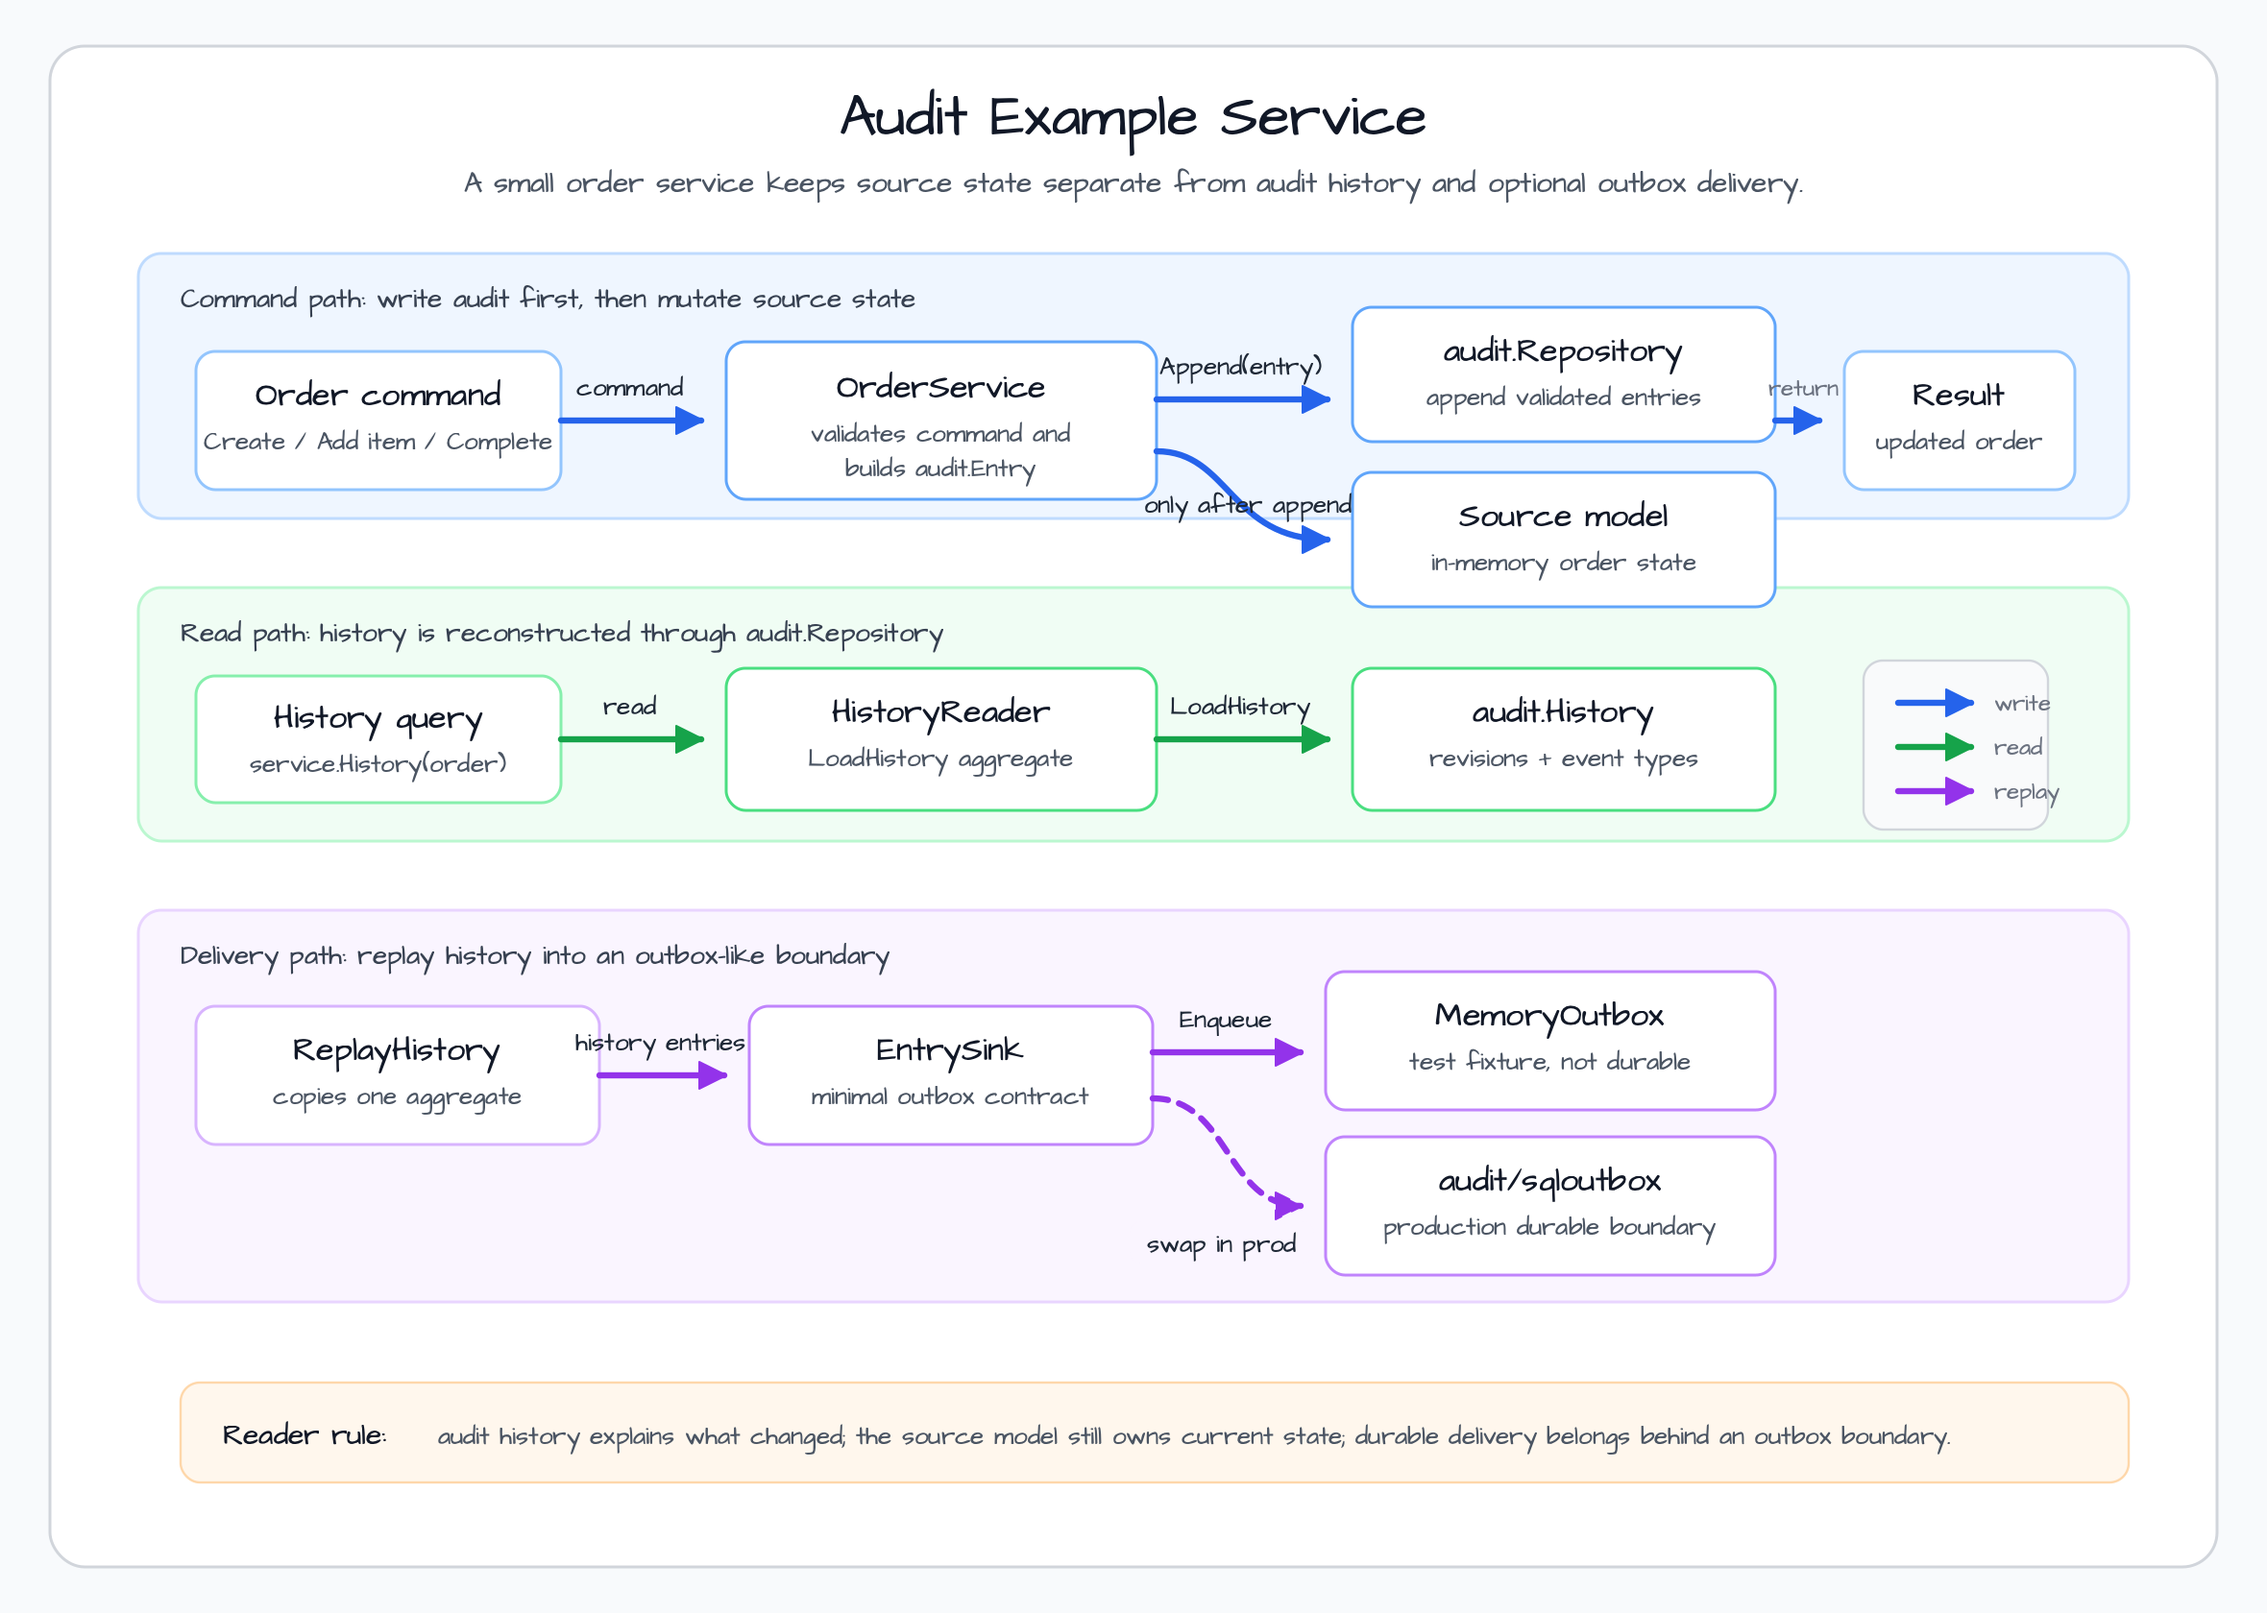
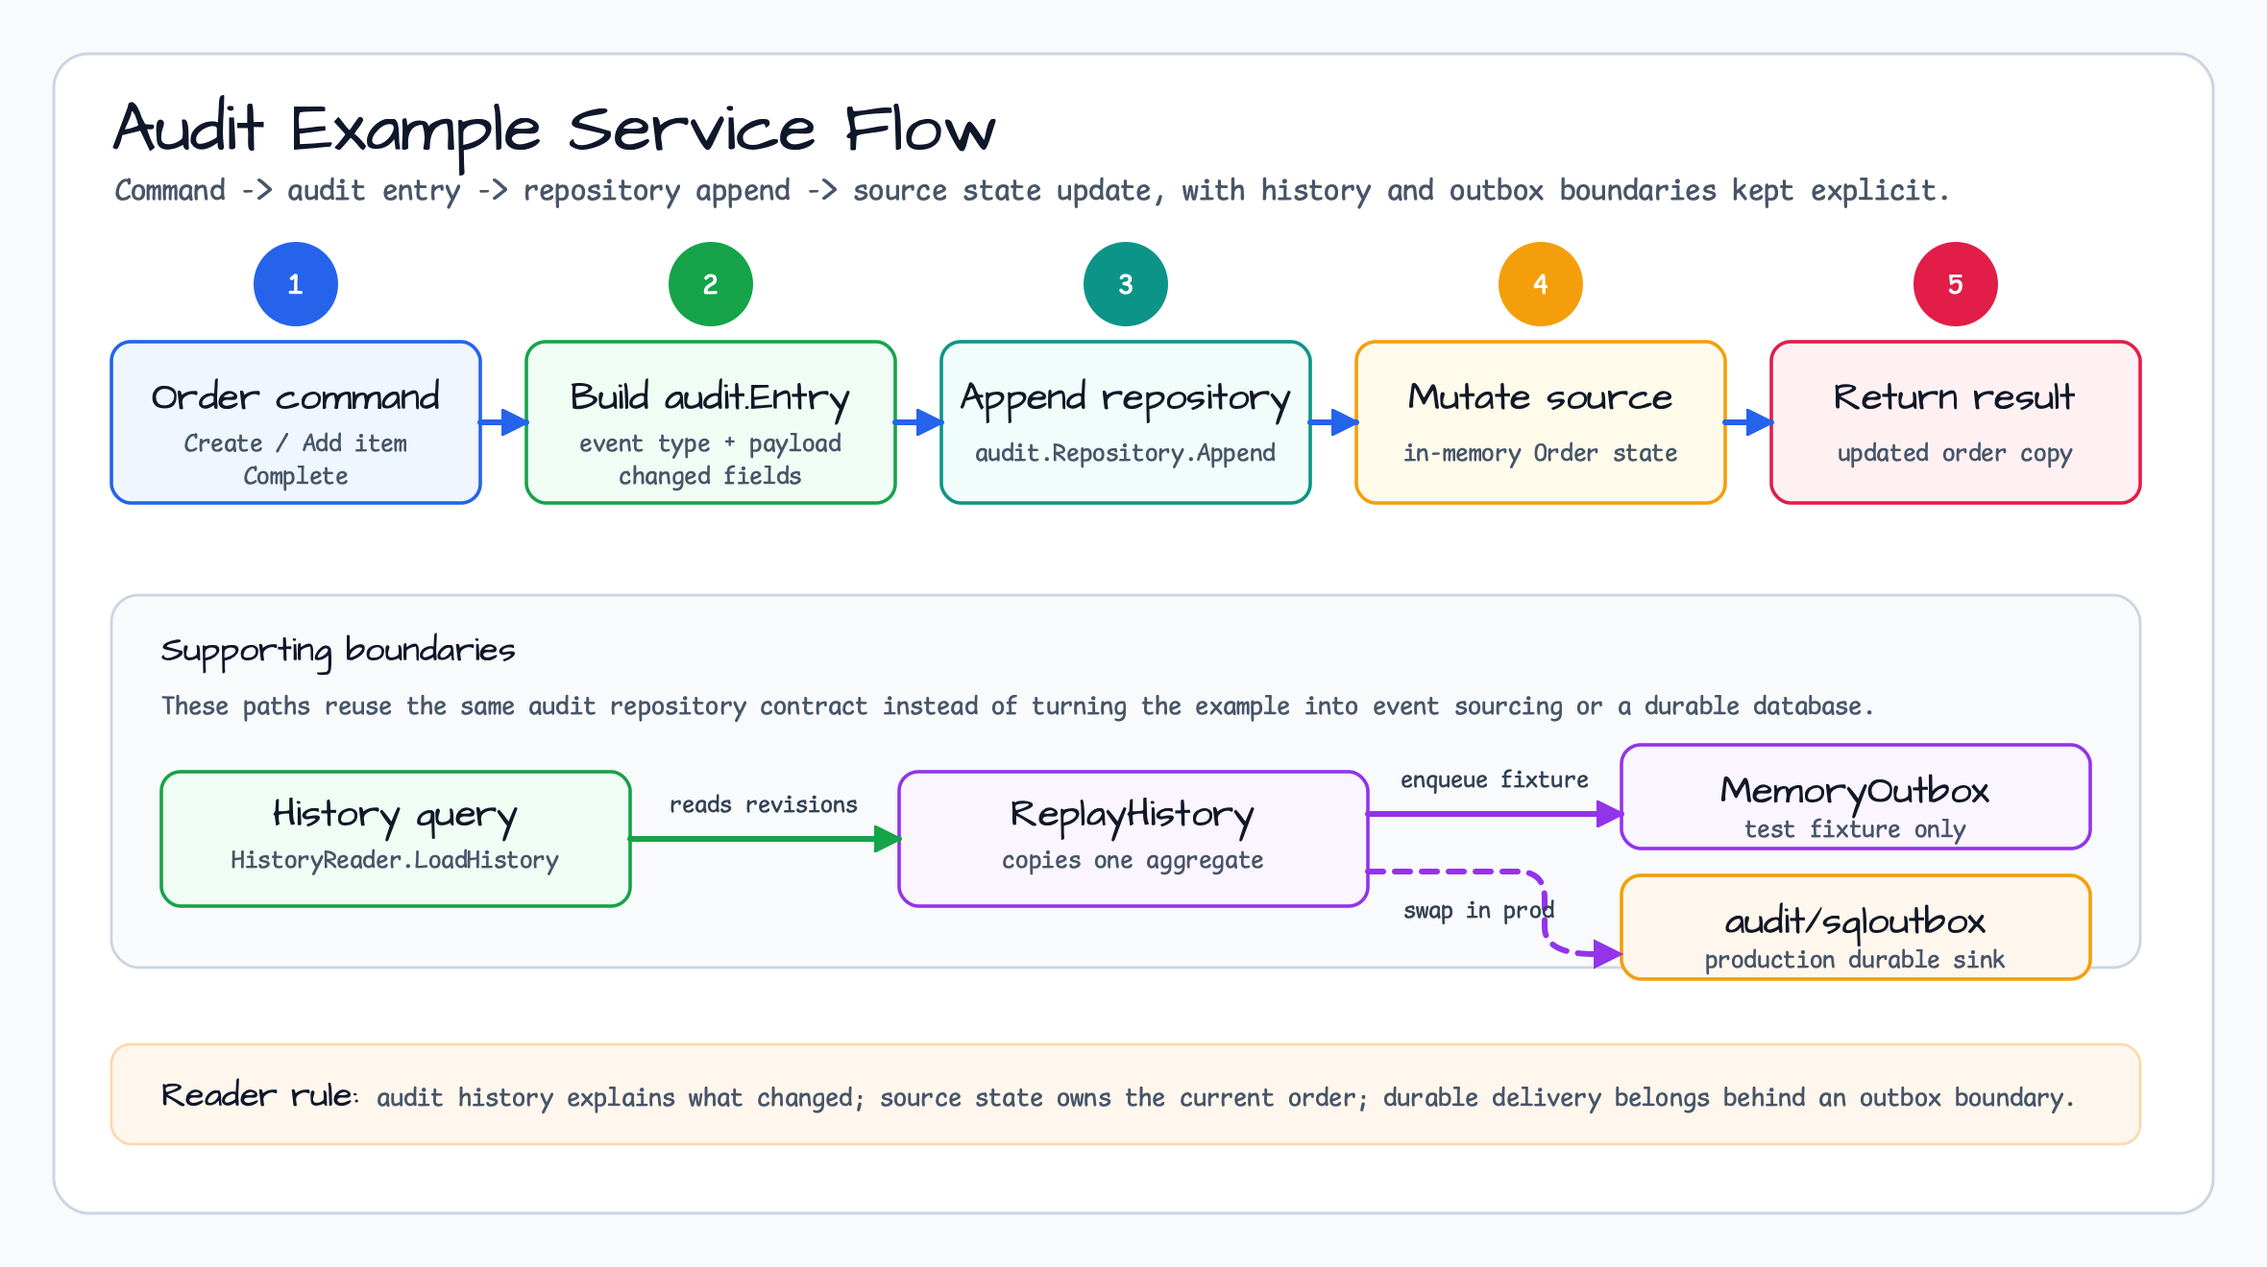
Align audit diagram with visual gates
Rework the audit example README diagram against the bluetape4k-wiki Scenario Workflow baseline so the visual now follows the documented checklist instead of only ad hoc SVG checks.

Constraint: The diagram must satisfy -diagram best-practices and explicit rendered-PNG QA after the initial review gap was called out.

Rejected: Keeping the three-lane flow map | It had not been derived from the best-practices catalog and was harder to defend against the skill checklist.

Confidence: high

Scope-risk: narrow

Directive: For future README diagrams, select the bluetape4k-wiki best-practice baseline before drawing and record it in the review evidence.

Tested: bluetape4k-wiki best-practices validation; SVG XML parse; fireworks validate-svg.sh; CairoSVG PNG render; marker/unicode/font audit; manual PNG inspection; go test -count=1 ./examples/audit; git diff --check

Not-tested: Skill-referenced diagram helper scripts were unavailable in the local install, so equivalent XML, marker, best-practices, fireworks validation, and rendered-PNG checks were used.

diff --git a/docs/review/2026-06-29-issue-59-audit-example-service-review.md b/docs/review/2026-06-29-issue-59-audit-example-service-review.md
@@ -14,6 +14,10 @@ P0=0 P1=0
 - README files document that `MemoryOutbox` is not durable, point durable
   delivery to `audit/sqloutbox`, and include a beginner-oriented diagram for
   the source-state, audit-history, and outbox boundaries.
+- The README diagram was reworked against the bluetape4k-wiki
+  `Flow And State` / `Scenario Workflow` best-practice baseline
+  `workflow-image-upload.png`: numbered main path, lower supporting-boundary
+  band, source-derived route labels, and footer rule.
 
 ## Residual Risks
 
@@ -21,6 +25,11 @@ P0=0 P1=0
   production persistence layer.
 - HTTP, Kafka, Redis projection, and SQL outbox composition remain later example
   or workshop work.
+- The installed `$bluetape4k-diagram` skill references connector audit helper
+  scripts that are not present in the local skill directory. This review uses
+  XML parse, `fireworks-tech-graph` SVG validation, marker audit,
+  best-practices validation, rendered-PNG inspection, and manual
+  endpoint/crossing review as the fallback evidence.
 
 ## Evidence
 
@@ -30,8 +39,11 @@ P0=0 P1=0
 - `git diff --check`
 - `make ci`
 - `python3 -c "import xml.etree.ElementTree as ET; ET.parse('docs/images/readme-diagrams/audit-example-service-flow.svg')"`
+- `/Users/debop/.codex/skills/fireworks-tech-graph/scripts/validate-svg.sh docs/images/readme-diagrams/audit-example-service-flow.svg`
 - `~/.local/bin/cairosvg docs/images/readme-diagrams/audit-example-service-flow.svg -o docs/images/readme-diagrams/audit-example-service-flow.png -s 2`
-- Manual PNG inspection: no clipped text/cards, marker color mismatch, or
-  duplicate/legacy icons. The installed diagram helper audit scripts referenced
-  by the skill were not present, so XML parsing, marker-color audit, and
-  rendered-PNG inspection were used as fallback evidence.
+- `ruby scripts/validate-diagram-best-practices.rb` in `bluetape4k-wiki`
+- Best-practices baseline read:
+  `/Users/debop/work/bluetape4k/bluetape4k-wiki/docs/diagrams/best-practices/assets/workflow-image-upload.png`
+- Manual PNG inspection: no clipped text/cards, marker color mismatch,
+  duplicate/legacy icons, connector-card intersections, tangent endpoints,
+  label overlap, or Unicode fallback boxes.

diff --git a/docs/superpowers/reviews/2026-06-29-issue-59-audit-example-service-review.md b/docs/superpowers/reviews/2026-06-29-issue-59-audit-example-service-review.md
@@ -21,6 +21,10 @@
   diffing, or durable storage, and the diagram shows the source-state,
   audit-history, and outbox boundaries for new readers.
 - Integration: P0=0 P1=0. Root README and changelog link the runnable example.
+- Visual/Docs: P0=0 P1=0. The diagram now follows the bluetape4k-wiki
+  `Flow And State` / `Scenario Workflow` baseline
+  `workflow-image-upload.png`: numbered primary path, lower supporting-boundary
+  band, route labels, visible outer frame, and footer reader rule.
 
 ## Evidence
 
@@ -30,7 +34,15 @@
 - `git diff --check`
 - `make ci`
 - `python3 -c "import xml.etree.ElementTree as ET; ET.parse('docs/images/readme-diagrams/audit-example-service-flow.svg')"`
+- `/Users/debop/.codex/skills/fireworks-tech-graph/scripts/validate-svg.sh docs/images/readme-diagrams/audit-example-service-flow.svg`
 - `~/.local/bin/cairosvg docs/images/readme-diagrams/audit-example-service-flow.svg -o docs/images/readme-diagrams/audit-example-service-flow.png -s 2`
-- Manual PNG inspection plus marker-color audit. The skill-referenced diagram
-  helper scripts were absent from the installed skill directory, so those helper
-  checks were replaced with XML, marker, and rendered-PNG evidence.
+- `ruby scripts/validate-diagram-best-practices.rb` in `bluetape4k-wiki`
+- Best-practices baseline read:
+  `/Users/debop/work/bluetape4k/bluetape4k-wiki/docs/diagrams/best-practices/assets/workflow-image-upload.png`
+- Marker-color audit: no `context-stroke`, no `markerUnits="strokeWidth"`,
+  and marker fill/stroke colors match connector strokes.
+- Manual PNG inspection: no clipped text/cards, connector-card intersections,
+  tangent endpoints, label overlap, duplicate/legacy icons, or Unicode fallback
+  boxes. The skill-referenced helper scripts were absent from the installed
+  skill directory, so XML, `fireworks-tech-graph` validation, marker,
+  best-practices, and rendered-PNG evidence were used as fallback checks.

diff --git a/docs/superpowers/pr/2026-06-29-issue-59-audit-example-service-pr-body.md b/docs/superpowers/pr/2026-06-29-issue-59-audit-example-service-pr-body.md
@@ -14,14 +14,17 @@ Closes #59.
 - `go test -race -count=1 ./examples/audit`
 - `go vet ./examples/audit ./audit ./audit/audittest ./audit/sqloutbox`
 - `make ci`
+- Best-practices baseline: `bluetape4k-wiki/docs/diagrams/best-practices/assets/workflow-image-upload.png`
+- `ruby scripts/validate-diagram-best-practices.rb` in `bluetape4k-wiki`
 - `python3 -c "import xml.etree.ElementTree as ET; ET.parse('docs/images/readme-diagrams/audit-example-service-flow.svg')"`
+- `/Users/debop/.codex/skills/fireworks-tech-graph/scripts/validate-svg.sh docs/images/readme-diagrams/audit-example-service-flow.svg`
 - `~/.local/bin/cairosvg docs/images/readme-diagrams/audit-example-service-flow.svg -o docs/images/readme-diagrams/audit-example-service-flow.png -s 2`
-- rendered PNG inspection and marker-color audit
+- rendered PNG inspection, marker-color audit, endpoint/crossing review, and Unicode fallback scan
 - `git diff --check`
 
 ## DoD Status
 
 - [x] Tests-first coverage exists for history queries, repository-boundary rollback, concurrent commands, and cancellation-aware outbox replay.
 - [x] `GoroutineStressTester` and `AsyncJobTester` are used in the example tests.
-- [x] Public example behavior is documented in English and Korean README files with a source-backed SVG/PNG diagram.
+- [x] Public example behavior is documented in English and Korean README files with a source-backed SVG/PNG diagram reviewed against the bluetape4k-wiki Scenario Workflow best-practice baseline.
 - [x] Lesson, spec, plan, and review artifacts were added for the issue.
